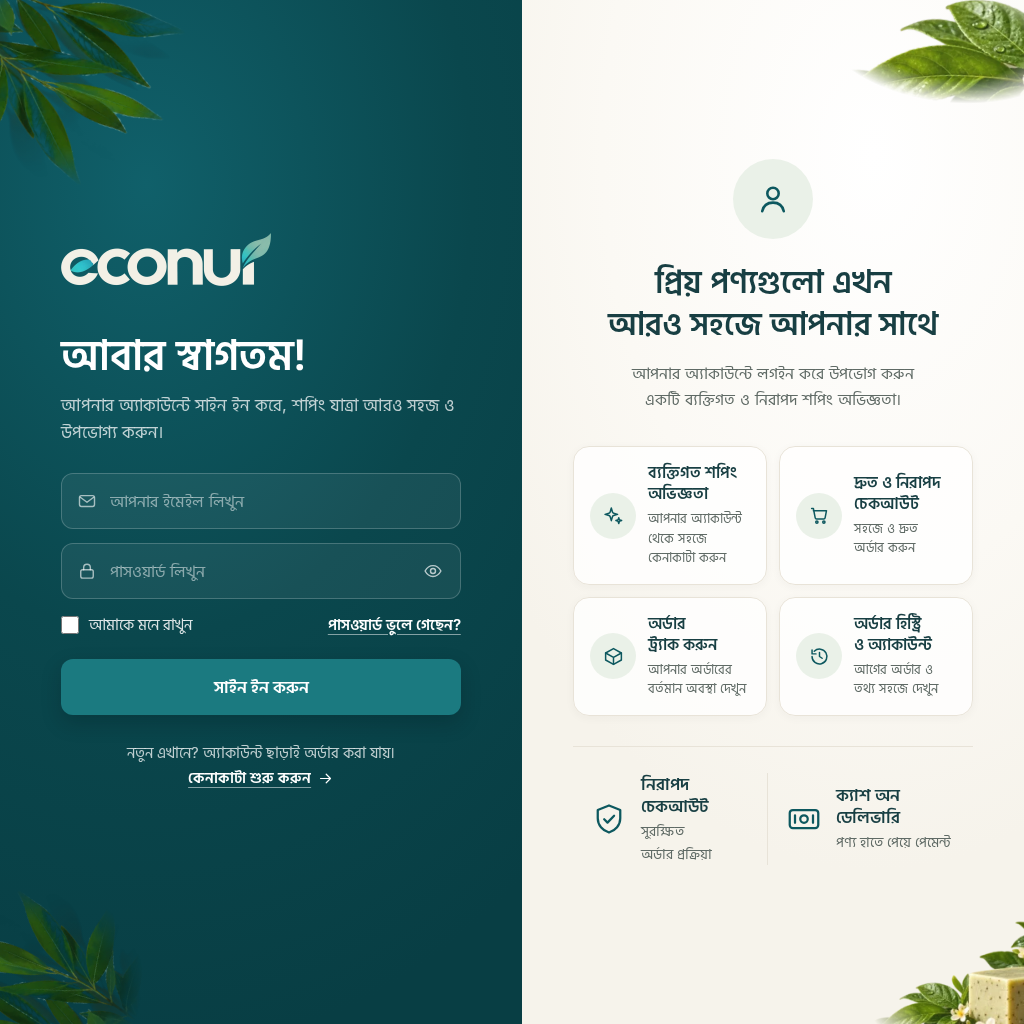
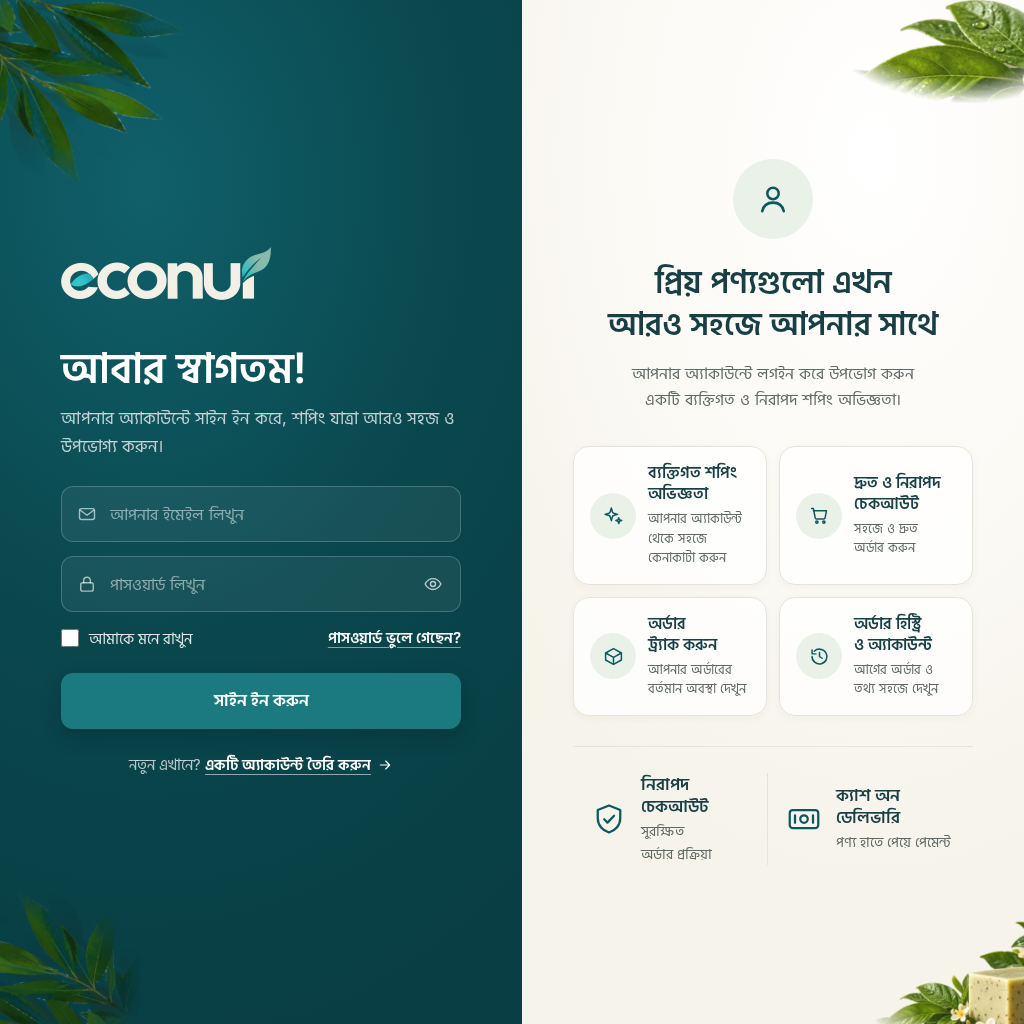
Sign-in / create-account page: theme-live snapshot synced; screenshots (login + register, desktop to 320px, password check)
Claude-Session: https://claude.ai/code/session_019SexMS1QwDBvZu3PuFEdLs

Changed region(s): [[0.0625, 0.4688, 0.4688, 0.7812], [0.0625, 0.2188, 0.4375, 0.4375]]

diff --git a/site-assets/econur/theme-live/theme/assets/econur-login.js b/site-assets/econur/theme-live/theme/assets/econur-login.js
@@ -1,41 +1,59 @@
-/* ECONUR customer login page 1.0 (templates/econur-login.php)
-   Show / hide the password, a short check for empty fields, and one submission at a time. The sign-in itself is
-   WooCommerce's (the form posts to the page and WordPress checks the password on the server). */
+/* ECONUR sign-in / create-account page 1.1 (templates/econur-login.php)
+   Show / hide passwords, short checks for empty or mistyped fields, and one submission at a time. Signing in and
+   creating the account are WooCommerce's own (the form posts to the page; WordPress and WooCommerce check everything
+   again on the server). On the create-account form WooCommerce's password strength meter may hold the button. */
 (function () {
   'use strict';
   var form = document.querySelector('.econur-login-form');
   if (!form) return;
+  var isReg = form.classList.contains('econur-register-form');
 
-  /* ---------- password visibility ---------- */
-  var eye = form.querySelector('[data-econur-eye]'), pass = document.getElementById('econur_login_pass');
-  if (eye && pass) eye.addEventListener('click', function () {
-    var show = pass.type === 'password';
-    pass.type = show ? 'text' : 'password';
-    eye.setAttribute('aria-pressed', show ? 'true' : 'false');
-    eye.setAttribute('aria-label', show ? 'পাসওয়ার্ড লুকান' : 'পাসওয়ার্ড দেখুন');
-    eye.querySelector('.econur-login-eye-show').hidden = show;
-    eye.querySelector('.econur-login-eye-hide').hidden = !show;
-    pass.focus({ preventScroll: true });
+  /* ---------- password visibility (every eye button on the form) ---------- */
+  [].slice.call(form.querySelectorAll('[data-econur-eye]')).forEach(function (eye) {
+    var pass = document.getElementById(eye.getAttribute('aria-controls'));
+    if (!pass) return;
+    eye.addEventListener('click', function () {
+      var show = pass.type === 'password';
+      pass.type = show ? 'text' : 'password';
+      eye.setAttribute('aria-pressed', show ? 'true' : 'false');
+      eye.setAttribute('aria-label', show ? 'পাসওয়ার্ড লুকান' : 'পাসওয়ার্ড দেখুন');
+      eye.querySelector('.econur-login-eye-show').hidden = show;
+      eye.querySelector('.econur-login-eye-hide').hidden = !show;
+      pass.focus({ preventScroll: true });
+    });
   });
 
-  /* ---------- empty fields, one submission ---------- */
-  var btn = form.querySelector('.econur-login-submit'), busy = false;
+  /* ---------- checks before sending ---------- */
   function fieldErr(input, msg) {
     var e = document.getElementById(input.id + '_err');
     if (e) { e.textContent = msg || ''; e.hidden = !msg; }
     if (msg) input.setAttribute('aria-invalid', 'true'); else input.removeAttribute('aria-invalid');
   }
-  var user = document.getElementById('econur_login_user');
-  [user, pass].forEach(function (i) { if (i) i.addEventListener('input', function () { if (i.value.trim()) fieldErr(i, ''); }); });
+  var $ = function (id) { return document.getElementById(id); };
+  var checks = isReg ? [
+    [$('econur_reg_name'), function (v) { return v.trim() ? '' : 'আপনার নাম লিখুন।'; }],
+    [$('reg_email'), function (v) { v = v.trim(); return !v ? 'আপনার ইমেইল লিখুন।' : (/^[^\s@]+@[^\s@]+\.[^\s@]+$/.test(v) ? '' : 'সঠিক ইমেইল ঠিকানা লিখুন।'); }],
+    [$('reg_password'), function (v) { return v ? '' : 'একটি পাসওয়ার্ড তৈরি করুন।'; }],
+    [$('econur_reg_password2'), function (v) { var p = $('reg_password'); return !v ? 'পাসওয়ার্ডটি আবার লিখুন।' : (p && v !== p.value ? 'পাসওয়ার্ড দুটি মিলছে না।' : ''); }]
+  ] : [
+    [$('econur_login_user'), function (v) { return v.trim() ? '' : 'ইমেইল বা ইউজারনেম লিখুন।'; }],
+    [$('econur_login_pass'), function (v) { return v ? '' : 'পাসওয়ার্ড লিখুন।'; }]
+  ];
+  checks = checks.filter(function (c) { return c[0]; });
+  // a field's message follows the typing once shown (and clears when the field is fixed)
+  checks.forEach(function (c) {
+    c[0].addEventListener('input', function () { if (c[0].getAttribute('aria-invalid') === 'true') fieldErr(c[0], c[1](c[0].value)); });
+  });
+
+  var btn = form.querySelector('.econur-login-submit'), busy = false;
   form.addEventListener('submit', function (e) {
     if (busy) { e.preventDefault(); return; }
     var first = null;
-    if (user && !user.value.trim()) { fieldErr(user, 'ইমেইল বা ইউজারনেম লিখুন।'); first = first || user; }
-    if (pass && !pass.value) { fieldErr(pass, 'পাসওয়ার্ড লিখুন।'); first = first || pass; }
+    checks.forEach(function (c) { var m = c[1](c[0].value); fieldErr(c[0], m); if (m && !first) first = c[0]; });
     if (first) { e.preventDefault(); first.focus(); return; }
     busy = true;
-    // the server reads the hidden "login" field, so the button can be disabled right away
-    setTimeout(function () { btn.disabled = true; btn.setAttribute('aria-busy', 'true'); btn.textContent = 'সাইন ইন হচ্ছে...'; }, 0);
+    // the server reads the hidden "login" / "register" field, so the button can be disabled right away
+    setTimeout(function () { btn.disabled = true; btn.setAttribute('aria-busy', 'true'); btn.textContent = btn.getAttribute('data-busy') || btn.textContent; }, 0);
   });
   // back / forward cache: the button is usable again
   window.addEventListener('pageshow', function (ev) {

diff --git a/site-assets/econur/theme-live/theme/assets/econur-login.css b/site-assets/econur/theme-live/theme/assets/econur-login.css
@@ -1,4 +1,4 @@
-/* ECONUR customer login page 1.0 (inc/econur-login.php, templates/econur-login.php)
+/* ECONUR customer sign-in / create-account page 1.1 (inc/econur-login.php, templates/econur-login.php)
    Left: deep ECONUR teal with the sign-in form. Right: warm cream with what an account offers.
    Colours are the site's own (checkout / header teal #0D585F, #0A474D, ink #183F43, cream), fonts the site's
    Hind Siliguri / Inter set (--ecn-font-bn, --ecn-font-body). Everything is scoped to body.econur-login-page. */
@@ -90,11 +90,26 @@ body.econur-login-page .econur-login-submit:disabled{ opacity:.85; cursor:progre
 .econur-login-or::before, .econur-login-or::after{ content:""; flex:1; height:1px; background:rgba(255, 255, 255, .3); }
 .econur-login-social{ display:grid; grid-template-columns:repeat(auto-fit, minmax(180px, 1fr)); gap:12px; }
 
-.econur-login-alt{ margin:26px 0 0 !important; font-size:15px; line-height:1.6; text-align:center; color:rgba(255, 255, 255, .74); }
-.econur-login-alt a{ display:inline-flex; align-items:center; gap:6px; color:#fff !important; font-weight:600; text-decoration:underline !important; text-decoration-color:rgba(255, 255, 255, .5) !important; text-underline-offset:4px; }
-.econur-login-alt a svg{ width:17px; height:17px; transition:transform .2s ease; }
+/* create account / sign in switch: one quiet line, the link part bright and underlined */
+.econur-login-alt{ margin:24px 0 0 !important; font-size:15px; line-height:1.6; text-align:center; color:rgba(255, 255, 255, .7); }
+.econur-login-alt a{ display:inline-flex; align-items:center; gap:6px; white-space:nowrap; color:#fff !important; font-weight:600; text-decoration:underline !important; text-decoration-color:rgba(255, 255, 255, .55) !important; text-underline-offset:4px; transition:text-decoration-color .2s ease; }
+.econur-login-alt a:hover{ text-decoration-color:#fff !important; }
+.econur-login-alt a svg{ flex:none; width:16px; height:16px; transition:transform .2s ease; }
 .econur-login-alt a:hover svg{ transform:translateX(2px); }
 .econur-login-alt a:focus-visible{ outline:2px solid var(--elg-focus); outline-offset:3px; border-radius:4px; }
+
+/* create account: WooCommerce's password strength message under the password */
+.econur-register-form .woocommerce-password-strength{ margin:8px 0 0; padding:7px 12px; border-radius:8px; font-size:13.5px; font-weight:600; line-height:1.4; text-align:left;
+  background:rgba(255, 255, 255, .08); color:#fff; border:1px solid rgba(255, 255, 255, .16); }
+.econur-register-form .woocommerce-password-strength.short{ background:rgba(214, 84, 66, .2); border-color:rgba(255, 160, 145, .45); color:#FFE3DD; }
+.econur-register-form .woocommerce-password-strength.bad{ background:rgba(222, 140, 60, .2); border-color:rgba(245, 190, 130, .45); color:#FFEBD6; }
+.econur-register-form .woocommerce-password-strength.good{ background:rgba(214, 186, 80, .18); border-color:rgba(240, 220, 140, .45); color:#FFF6D6; }
+.econur-register-form .woocommerce-password-strength.strong{ background:rgba(84, 170, 136, .2); border-color:rgba(150, 215, 190, .5); color:#DDF5EA; }
+.econur-register-form .woocommerce-password-hint{ display:block; margin:6px 2px 0; font-size:13px; line-height:1.5; color:rgba(255, 255, 255, .72); }
+body.econur-login-page .econur-register-form .econur-login-submit:disabled:not([aria-busy]){ opacity:.55; cursor:not-allowed; box-shadow:none !important; }
+.econur-register-form .woocommerce-privacy-policy-text p{ margin:4px 0 16px !important; font-size:13px; line-height:1.55; color:rgba(255, 255, 255, .66); }
+.econur-register-form .woocommerce-privacy-policy-text a{ color:#fff; }
+body.econur-login-page .econur-register-form .econur-login-submit{ margin-top:8px !important; }
 
 /* phones only: the account reasons in one short list after the form */
 .econur-login-mbenefits{ display:none; }

diff --git a/site-assets/econur/theme-live/theme/inc/econur-login.php b/site-assets/econur/theme-live/theme/inc/econur-login.php
@@ -8,7 +8,9 @@
  * Nothing is stored here and nothing is decided in JavaScript.
  *   - logged-in visitors are sent on to My Account (or the safe redirect_to address);
  *   - "Forgot password" is WooCommerce's lost-password page; after a reset the visitor comes back here;
- *   - account registration follows WooCommerce > Settings > Accounts (off on this store, so no "create account" link);
+ *   - account creation (/login/?action=register) is WooCommerce's own registration (WC_Form_Handler::process_registration:
+ *     email, password, its nonce; it creates a normal WooCommerce customer, signs them in and redirects safely); this page
+ *     adds the name and the password confirmation. Shown only while WooCommerce > Settings > Accounts allows it;
  *   - social sign-in buttons appear only if a real provider prints them (filter econur_login_social_buttons);
  *   - /wp-login.php and the WordPress admin sign-in are not touched.
  * The page is a WordPress page (option econur_login_page_id) shown with templates/econur-login.php instead of the theme's
@@ -17,7 +19,7 @@
  */
 defined('ABSPATH') || exit;
 
-const ECONUR_LOGIN_VER = '1.0.1';
+const ECONUR_LOGIN_VER = '1.1.1';
 
 function econur_login_page_id() {
     $id = (int) get_option('econur_login_page_id');
@@ -39,6 +41,20 @@ function econur_login_url($back = '') {
     $back = $back ? wp_validate_redirect($back, '') : '';
     return $back ? add_query_arg('redirect_to', rawurlencode($back), $url) : $url;
 }
+// "login" or "register" (/login/?action=register, only while WooCommerce allows customers to create accounts)
+function econur_login_can_register() { return 'yes' === get_option('woocommerce_enable_myaccount_registration'); }
+function econur_login_mode() {
+    return (isset($_GET['action']) && 'register' === $_GET['action'] && econur_login_can_register()) ? 'register' : 'login'; // phpcs:ignore WordPress.Security.NonceVerification
+}
+// the other view of this page, keeping a safe redirect_to
+function econur_login_switch_url($mode) {
+    $url = get_permalink(econur_login_page_id());
+    if (isset($_GET['redirect_to'])) { // phpcs:ignore WordPress.Security.NonceVerification
+        $to = wp_validate_redirect(esc_url_raw(wp_unslash($_GET['redirect_to'])), ''); // phpcs:ignore WordPress.Security.NonceVerification
+        if ($to) $url = add_query_arg('redirect_to', rawurlencode($to), $url);
+    }
+    return 'register' === $mode ? add_query_arg('action', 'register', $url) : $url;
+}
 // where to go after signing in: a safe redirect_to, otherwise My Account
 function econur_login_target() {
     $acc = wc_get_page_permalink('myaccount');
@@ -58,10 +74,10 @@ add_action('template_redirect', function () {
         nocache_headers();
         return;
     }
-    // registration is off: a signed-out visitor at My Account (the WooCommerce sign-in form) sees this page instead;
+    // a signed-out visitor at My Account (WooCommerce's sign-in / register forms) sees this page instead;
     // the lost-password and other account addresses stay WooCommerce's own
     if (econur_login_live() && function_exists('is_account_page') && is_account_page() && !is_user_logged_in()
-        && !is_wc_endpoint_url() && 'GET' === ($_SERVER['REQUEST_METHOD'] ?? '') && 'yes' !== get_option('woocommerce_enable_myaccount_registration')) {
+        && !is_wc_endpoint_url() && 'GET' === ($_SERVER['REQUEST_METHOD'] ?? '')) {
         $url = get_permalink(econur_login_page_id());
         if (isset($_GET['password-reset'])) $url = add_query_arg('password-reset', 'true', $url); // phpcs:ignore WordPress.Security.NonceVerification
         wp_safe_redirect($url); exit;
@@ -75,7 +91,7 @@ add_filter('template_include', function ($tpl) {
 }, 99);
 
 add_filter('wp_robots', function ($r) { if (econur_is_login_page()) { $r['noindex'] = true; $r['follow'] = true; } return $r; });
-add_filter('pre_get_document_title', function ($t) { return econur_is_login_page() ? 'সাইন ইন – ' . get_bloginfo('name') : $t; }, 20);
+add_filter('pre_get_document_title', function ($t) { return econur_is_login_page() ? ('register' === econur_login_mode() ? 'অ্যাকাউন্ট তৈরি করুন' : 'সাইন ইন') . ' – ' . get_bloginfo('name') : $t; }, 20);
 add_filter('body_class', function ($c) { if (econur_is_login_page()) $c[] = 'econur-login-page'; return $c; });
 
 add_action('wp_enqueue_scripts', function () {
@@ -83,14 +99,34 @@ add_action('wp_enqueue_scripts', function () {
     $u = get_stylesheet_directory_uri() . '/assets/';
     wp_enqueue_style('econur-login', $u . 'econur-login.css', array(), ECONUR_LOGIN_VER);
     wp_enqueue_script('econur-login', $u . 'econur-login.js', array(), ECONUR_LOGIN_VER, array('in_footer' => true, 'strategy' => 'defer'));
+    if ('register' === econur_login_mode() && wp_script_is('wc-password-strength-meter', 'registered')) {
+        // WooCommerce's own password strength check (it holds the button until the password is strong enough), in Bengali
+        wp_enqueue_script('wc-password-strength-meter');
+        wp_add_inline_script('password-strength-meter', 'window.pwsL10n=' . wp_json_encode(array(
+            'unknown' => 'পাসওয়ার্ডের শক্তি বোঝা যাচ্ছে না', 'short' => 'খুব দুর্বল', 'bad' => 'দুর্বল', 'good' => 'মাঝারি', 'strong' => 'শক্তিশালী', 'mismatch' => 'মিলছে না',
+        )) . ';', 'after');
+    }
 }, 40);
+add_filter('woocommerce_get_script_data', function ($data, $handle) {
+    if ('wc-password-strength-meter' !== $handle || !is_array($data) || !econur_is_login_page()) return $data;
+    $data['i18n_password_error'] = 'আরও শক্তিশালী একটি পাসওয়ার্ড দিন।';
+    $data['i18n_password_hint'] = 'পরামর্শ: পাসওয়ার্ডটি অন্তত ১২ অক্ষরের রাখুন। আরও শক্তিশালী করতে ছোট ও বড় হাতের অক্ষর, সংখ্যা এবং ! " ? $ % ^ &amp; ) এর মতো চিহ্ন ব্যবহার করুন।';
+    return $data;
+}, 10, 2);
 
 /* ---------------------------------------------------------------- messages from WooCommerce / WordPress, in Bengali */
-// Only for this form's own requests. "Unknown user" and "wrong password" get one shared message.
+// Only for this page's own requests (sign in and create account). "Unknown user" and "wrong password" get one shared message.
 function econur_login_posted() { return isset($_POST['econur_login_form']); } // phpcs:ignore WordPress.Security.NonceVerification
+function econur_reg_posted() { return isset($_POST['econur_reg_form']); } // phpcs:ignore WordPress.Security.NonceVerification
 add_filter('woocommerce_add_error', function ($msg) {
     if (!econur_login_posted()) return $msg;
     $t = strtolower(wp_strip_all_tags((string) $msg));
+    if (econur_reg_posted()) {
+        if (false !== strpos($t, 'already registered with')) return 'এই ইমেইল দিয়ে আগেই একটি অ্যাকাউন্ট খোলা আছে। <a href="' . esc_url(econur_login_switch_url('login')) . '">সাইন ইন করুন</a>, অথবা <a href="' . esc_url(wc_lostpassword_url()) . '">পাসওয়ার্ড রিসেট করুন</a>।';
+        if (false !== strpos($t, 'valid email')) return 'সঠিক ইমেইল ঠিকানা লিখুন।';
+        if (false !== strpos($t, 'account password') || false !== strpos($t, 'create a password')) return 'একটি পাসওয়ার্ড তৈরি করুন।';
+        return preg_replace('#^<strong>[^<]*</strong>\s*#', '', (string) $msg); // our own messages (name, confirmation) without the "Error:" label
+    }
     if (false !== strpos($t, 'username is required')) return 'ইমেইল বা ইউজারনেম লিখুন।';
     if (false !== strpos($t, 'password field is empty') || false !== strpos($t, 'password is required')) return 'পাসওয়ার্ড লিখুন।';
     if (preg_match('/incorrect|not registered|unknown (email|username)|invalid (username|email)/', $t)) {
@@ -98,6 +134,45 @@ add_filter('woocommerce_add_error', function ($msg) {
     }
     return $msg;
 }, 20);
+
+add_filter('woocommerce_add_success', function ($msg) {
+    if (!econur_reg_posted()) return $msg;
+    return false !== stripos(wp_strip_all_tags((string) $msg), 'account was created') ? 'আপনার অ্যাকাউন্ট তৈরি হয়েছে। স্বাগতম!' : $msg;
+});
+
+// WooCommerce's privacy line on the create-account form, in Bengali (same meaning and privacy-policy link as at checkout)
+add_filter('woocommerce_get_privacy_policy_text', function ($text, $type) {
+    return 'registration' === $type ? 'আপনার ব্যক্তিগত তথ্য অ্যাকাউন্ট পরিচালনা করতে, এই ওয়েবসাইটে আপনার অভিজ্ঞতা সহজ রাখতে এবং আমাদের [privacy_policy]-এ বর্ণিত অন্যান্য উদ্দেশ্যে ব্যবহার করা হবে।' : $text;
+}, 20, 2);
+
+/* ---------------------------------------------------------------- create account: the page's extra fields */
+// name and password confirmation, checked on the server next to WooCommerce's own checks (email, password)
+add_filter('woocommerce_process_registration_errors', function ($errors, $username, $password, $email) {
+    if (!econur_reg_posted()) return $errors;
+    $name = isset($_POST['econur_name']) ? sanitize_text_field(wp_unslash($_POST['econur_name'])) : ''; // phpcs:ignore WordPress.Security.NonceVerification -- WooCommerce checked its nonce
+    if ('' === $name) $errors->add('econur_name', 'আপনার নাম লিখুন।');
+    elseif (function_exists('mb_strlen') ? mb_strlen($name) > 100 : strlen($name) > 100) $errors->add('econur_name', 'নামটি ১০০ অক্ষরের মধ্যে লিখুন।');
+    $email = trim((string) $email);
+    if ('' === $email) $errors->add('econur_email', 'আপনার ইমেইল লিখুন।');
+    elseif (!is_email($email)) $errors->add('econur_email', 'সঠিক ইমেইল ঠিকানা লিখুন।');
+    $pw2 = isset($_POST['econur_password2']) ? (string) wp_unslash($_POST['econur_password2']) : ''; // phpcs:ignore WordPress.Security.NonceVerification, WordPress.Security.ValidatedSanitizedInput.InputNotSanitized -- compared only
+    if ('' === (string) $password) $errors->add('econur_password', 'একটি পাসওয়ার্ড তৈরি করুন।');
+    elseif ($pw2 !== wp_unslash((string) $password)) $errors->add('econur_password2', 'পাসওয়ার্ড দুটি মিলছে না।');
+    return $errors;
+}, 10, 4);
+// the customer's name on the new WooCommerce account (also as the checkout's "full name")
+function econur_reg_name() {
+    return econur_reg_posted() && isset($_POST['econur_name']) ? sanitize_text_field(wp_unslash($_POST['econur_name'])) : ''; // phpcs:ignore WordPress.Security.NonceVerification
+}
+add_filter('woocommerce_new_customer_data', function ($data) {
+    $name = econur_reg_name();
+    if ('' !== $name) { $data['first_name'] = $name; $data['display_name'] = $name; }
+    return $data;
+});
+add_action('woocommerce_created_customer', function ($customer_id) {
+    $name = econur_reg_name();
+    if ('' !== $name) update_user_meta($customer_id, 'billing_first_name', $name);
+});
 
 /* ---------------------------------------------------------------- content */
 function econur_login_icon($n) {

diff --git a/site-assets/econur/theme-live/theme/templates/econur-login.php b/site-assets/econur/theme-live/theme/templates/econur-login.php
@@ -6,17 +6,20 @@
 defined('ABSPATH') || exit;
 
 $target  = econur_login_target();
+$mode    = econur_login_mode(); // "login" or "register" (?action=register)
 $user    = isset($_POST['username']) ? sanitize_text_field(wp_unslash($_POST['username'])) : ''; // phpcs:ignore WordPress.Security.NonceVerification
 $remember = !empty($_POST['rememberme']); // phpcs:ignore WordPress.Security.NonceVerification
 // the form was sent but WooCommerce did not act on it (an expired security token): say so instead of a silent reload
 if (econur_login_posted() && !is_user_logged_in() && !wc_notice_count('error')) {
-    wc_add_notice('পেজটি অনেকক্ষণ খোলা ছিল। অনুগ্রহ করে আবার সাইন ইন করুন।', 'error');
+    wc_add_notice('পেজটি অনেকক্ষণ খোলা ছিল। অনুগ্রহ করে আবার চেষ্টা করুন।', 'error');
 }
 if (isset($_GET['password-reset'])) { // phpcs:ignore WordPress.Security.NonceVerification
     wc_add_notice('আপনার পাসওয়ার্ড পরিবর্তন হয়েছে। নতুন পাসওয়ার্ড দিয়ে সাইন ইন করুন।', 'success');
 }
 $social  = (string) apply_filters('econur_login_social_buttons', ''); // only a configured provider fills this
-$can_register = 'yes' === get_option('woocommerce_enable_myaccount_registration');
+$can_register = econur_login_can_register();
+$reg_name  = isset($_POST['econur_name']) ? sanitize_text_field(wp_unslash($_POST['econur_name'])) : ''; // phpcs:ignore WordPress.Security.NonceVerification
+$reg_email = isset($_POST['email']) ? sanitize_email(wp_unslash($_POST['email'])) : ''; // phpcs:ignore WordPress.Security.NonceVerification
 $guest   = 'yes' === get_option('woocommerce_enable_guest_checkout');
 $shop    = wc_get_page_permalink('shop');
 ?><!doctype html>
@@ -38,11 +41,59 @@ $shop    = wc_get_page_permalink('shop');
 				<?php // the official ECONUR logo in its light version for the dark panel (same artwork: off-white lettering, lighter leaves) ?>
 				<img class="econur-login-logo" src="<?php echo esc_url(get_stylesheet_directory_uri() . '/assets/econur-logo-light.webp?ver=' . ECONUR_LOGIN_VER); ?>" width="840" height="212" alt="ECONUR" decoding="async" fetchpriority="high">
 			</a>
-			<h1 class="econur-login-h" id="econur-login-h" lang="bn">আবার স্বাগতম!</h1>
-			<p class="econur-login-lead" lang="bn">আপনার অ্যাকাউন্টে সাইন ইন করে, শপিং যাত্রা আরও সহজ ও উপভোগ্য করুন।</p>
+			<?php if ('register' === $mode) : ?>
+				<h1 class="econur-login-h" id="econur-login-h" lang="bn">অ্যাকাউন্ট তৈরি করুন</h1>
+				<p class="econur-login-lead" lang="bn">ECONUR-এর সাথে আপনার শপিং আরও সহজ করুন।</p>
+			<?php else : ?>
+				<h1 class="econur-login-h" id="econur-login-h" lang="bn">আবার স্বাগতম!</h1>
+				<p class="econur-login-lead" lang="bn">আপনার অ্যাকাউন্টে সাইন ইন করে, শপিং যাত্রা আরও সহজ ও উপভোগ্য করুন।</p>
+			<?php endif; ?>
 
 			<div class="econur-login-notices" lang="bn"><?php wc_print_notices(); ?></div>
 
+			<?php if ('register' === $mode) : ?>
+			<form class="econur-login-form econur-register-form woocommerce-form woocommerce-form-register register" method="post" action="<?php echo esc_url(add_query_arg(array())); ?>" novalidate lang="bn">
+				<?php do_action('woocommerce_register_form_start'); ?>
+				<div class="econur-login-field">
+					<label class="econur-login-sr" for="econur_reg_name">আপনার নাম</label>
+					<span class="econur-login-fic"><?php echo econur_login_icon('user'); // phpcs:ignore ?></span>
+					<input type="text" class="econur-login-input" name="econur_name" id="econur_reg_name" value="<?php echo esc_attr($reg_name); ?>" placeholder="আপনার নাম লিখুন" autocomplete="name" maxlength="100" required aria-describedby="econur_reg_name_err">
+					<span class="econur-login-ferr" id="econur_reg_name_err" hidden></span>
+				</div>
+				<div class="econur-login-field">
+					<label class="econur-login-sr" for="reg_email">ইমেইল</label>
+					<span class="econur-login-fic"><?php echo econur_login_icon('mail'); // phpcs:ignore ?></span>
+					<input type="email" class="econur-login-input" name="email" id="reg_email" value="<?php echo esc_attr($reg_email); ?>" placeholder="আপনার ইমেইল লিখুন" autocomplete="email" autocapitalize="off" spellcheck="false" required aria-describedby="reg_email_err">
+					<span class="econur-login-ferr" id="reg_email_err" hidden></span>
+				</div>
+				<div class="econur-login-field">
+					<label class="econur-login-sr" for="reg_password">পাসওয়ার্ড তৈরি করুন</label>
+					<span class="econur-login-fic"><?php echo econur_login_icon('lock'); // phpcs:ignore ?></span>
+					<input type="password" class="econur-login-input has-eye" name="password" id="reg_password" placeholder="পাসওয়ার্ড তৈরি করুন" autocomplete="new-password" required aria-describedby="reg_password_err">
+					<button type="button" class="econur-login-eye" data-econur-eye aria-controls="reg_password" aria-pressed="false" aria-label="পাসওয়ার্ড দেখুন">
+						<span class="econur-login-eye-show"><?php echo econur_login_icon('eye'); // phpcs:ignore ?></span><span class="econur-login-eye-hide" hidden><?php echo econur_login_icon('eyeoff'); // phpcs:ignore ?></span>
+					</button>
+					<span class="econur-login-ferr" id="reg_password_err" hidden></span>
+				</div>
+				<div class="econur-login-field">
+					<label class="econur-login-sr" for="econur_reg_password2">পাসওয়ার্ড নিশ্চিত করুন</label>
+					<span class="econur-login-fic"><?php echo econur_login_icon('lock'); // phpcs:ignore ?></span>
+					<input type="password" class="econur-login-input has-eye" name="econur_password2" id="econur_reg_password2" placeholder="পাসওয়ার্ড নিশ্চিত করুন" autocomplete="new-password" required aria-describedby="econur_reg_password2_err">
+					<button type="button" class="econur-login-eye" data-econur-eye aria-controls="econur_reg_password2" aria-pressed="false" aria-label="পাসওয়ার্ড দেখুন">
+						<span class="econur-login-eye-show"><?php echo econur_login_icon('eye'); // phpcs:ignore ?></span><span class="econur-login-eye-hide" hidden><?php echo econur_login_icon('eyeoff'); // phpcs:ignore ?></span>
+					</button>
+					<span class="econur-login-ferr" id="econur_reg_password2_err" hidden></span>
+				</div>
+				<?php do_action('woocommerce_register_form'); ?>
+				<?php wp_nonce_field('woocommerce-register', 'woocommerce-register-nonce'); ?>
+				<input type="hidden" name="redirect" value="<?php echo esc_url($target); ?>">
+				<input type="hidden" name="register" value="1">
+				<input type="hidden" name="econur_login_form" value="1">
+				<input type="hidden" name="econur_reg_form" value="1">
+				<button type="submit" class="econur-login-submit" data-label="অ্যাকাউন্ট তৈরি করুন" data-busy="অ্যাকাউন্ট তৈরি হচ্ছে...">অ্যাকাউন্ট তৈরি করুন</button>
+				<?php do_action('woocommerce_register_form_end'); ?>
+			</form>
+			<?php else : ?>
 			<form class="econur-login-form woocommerce-form woocommerce-form-login login" method="post" action="<?php echo esc_url(add_query_arg(array())); ?>" novalidate lang="bn">
 				<?php do_action('woocommerce_login_form_start'); ?>
 				<div class="econur-login-field">
@@ -72,17 +123,20 @@ $shop    = wc_get_page_permalink('shop');
 				<input type="hidden" name="redirect" value="<?php echo esc_url($target); ?>">
 				<input type="hidden" name="login" value="1">
 				<input type="hidden" name="econur_login_form" value="1">
-				<button type="submit" class="econur-login-submit" data-label="সাইন ইন করুন">সাইন ইন করুন</button>
+				<button type="submit" class="econur-login-submit" data-label="সাইন ইন করুন" data-busy="সাইন ইন হচ্ছে...">সাইন ইন করুন</button>
 				<?php do_action('woocommerce_login_form_end'); ?>
 			</form>
+			<?php endif; ?>
 
-			<?php if ('' !== trim($social)) : ?>
+			<?php if ('login' === $mode && '' !== trim($social)) : ?>
 				<div class="econur-login-or" lang="bn"><span>অথবা</span></div>
 				<div class="econur-login-social"><?php echo $social; // phpcs:ignore -- markup from the configured provider ?></div>
 			<?php endif; ?>
 
-			<?php if ($can_register) : ?>
-				<p class="econur-login-alt" lang="bn">নতুন এখানে? <a href="<?php echo esc_url(wc_get_page_permalink('myaccount')); ?>">একটি অ্যাকাউন্ট তৈরি করুন<?php echo econur_login_icon('arrow'); // phpcs:ignore ?></a></p>
+			<?php if ('register' === $mode) : ?>
+				<p class="econur-login-alt" lang="bn">ইতিমধ্যে অ্যাকাউন্ট আছে? <a href="<?php echo esc_url(econur_login_switch_url('login')); ?>">সাইন ইন করুন<?php echo econur_login_icon('arrow'); // phpcs:ignore ?></a></p>
+			<?php elseif ($can_register) : ?>
+				<p class="econur-login-alt" lang="bn">নতুন এখানে? <a href="<?php echo esc_url(econur_login_switch_url('register')); ?>">একটি অ্যাকাউন্ট তৈরি করুন<?php echo econur_login_icon('arrow'); // phpcs:ignore ?></a></p>
 			<?php elseif ($guest && $shop) : ?>
 				<p class="econur-login-alt" lang="bn">নতুন এখানে? অ্যাকাউন্ট ছাড়াই অর্ডার করা যায়। <a href="<?php echo esc_url($shop); ?>">কেনাকাটা শুরু করুন<?php echo econur_login_icon('arrow'); // phpcs:ignore ?></a></p>
 			<?php endif; ?>
